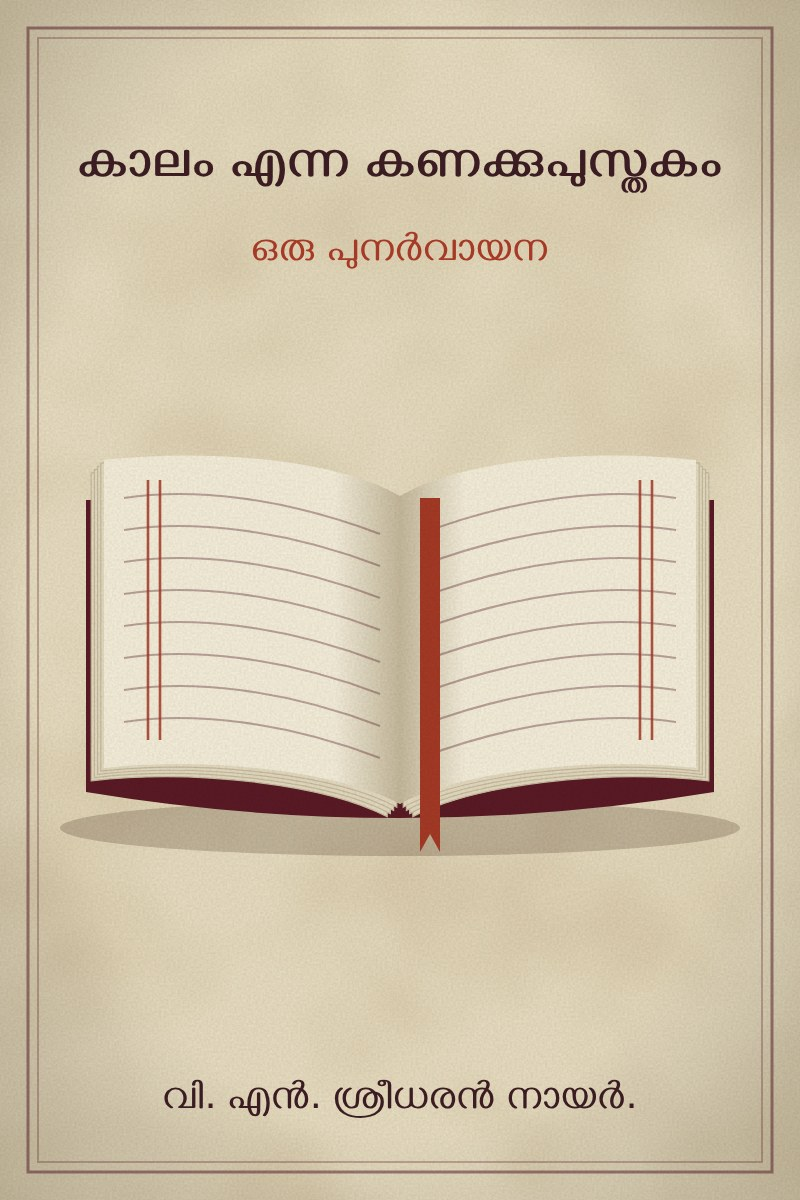
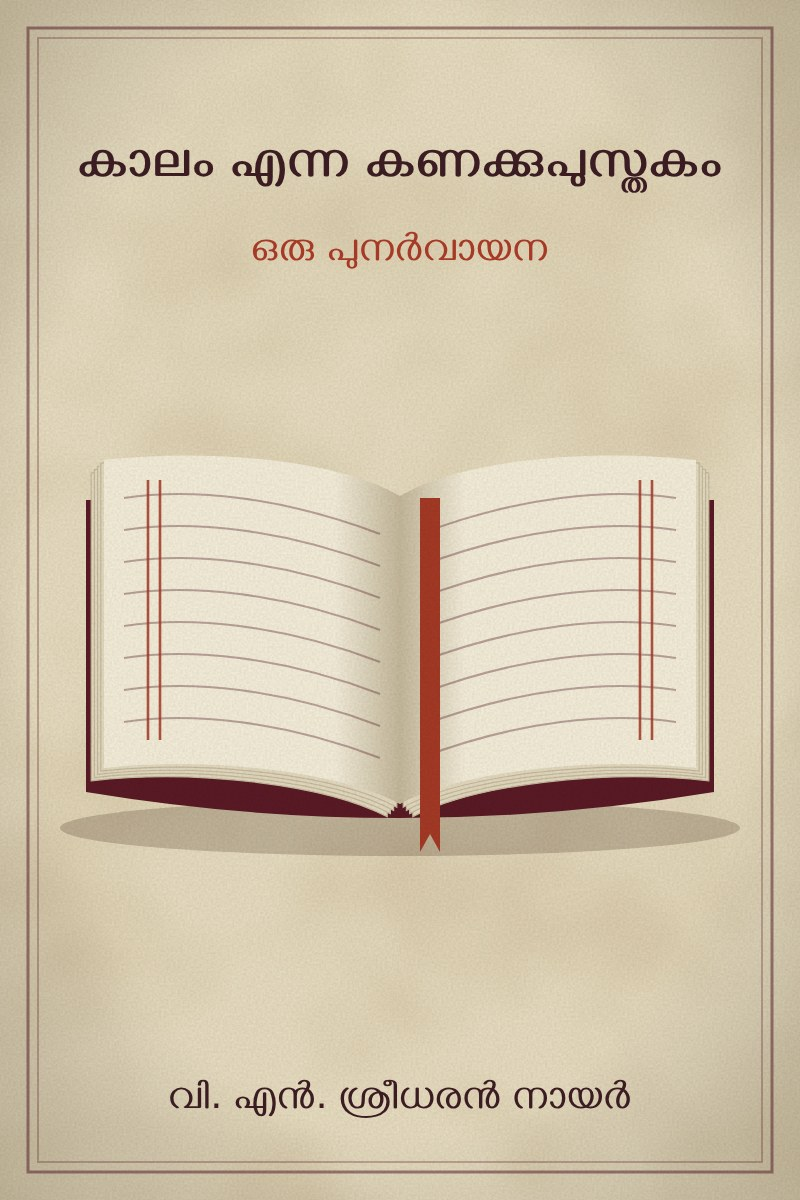
Remove toggle

Changed region(s): [[0.1875, 0.8942, 0.8125, 0.9558]]

diff --git a/src/custom.css b/src/custom.css
@@ -742,20 +742,15 @@ body,
     color: var(--accent);
 }
 
-/* Cover: which one shows is set by COVER in book-extras.js ("A", "B" or "none") */
+/* Cover */
 .content main .title-page .cover-art{margin:0 0 2rem;text-align:center}
-.content main .title-page .cover-art img{display:none;width:min(420px,100%);height:auto;margin:0 auto;border-radius:3px;box-shadow:0 3px 14px rgba(0,0,0,.28)}
-:root:not([data-cover]) .cover-art img[data-cover="A"],
-:root[data-cover="A"] .cover-art img[data-cover="A"],
-:root[data-cover="B"] .cover-art img[data-cover="B"],
-:root[data-cover="C"] .cover-art img[data-cover="C"],
-:root[data-cover="D"] .cover-art img[data-cover="D"]{display:block}
-/* With a cover showing, the typed title block stays in the page for the sidebar and search but is hidden visually */
-:root:not([data-cover="none"]) .content main .title-page > :is(h1,h2,hr,.author-name){position:absolute;width:1px;height:1px;overflow:hidden;clip-path:inset(50%);white-space:nowrap;margin:0;padding:0;border:0}
-/* With a cover showing, drop the title-page double rules and spacing */
-:root:not([data-cover="none"]) .content main .title-page{border-block:0;padding:0;margin:1.5rem auto;max-width:460px}
-/* With a cover showing, the cover IS the page: no paper card around it */
-:root:not([data-cover="none"]) .content main:has(.title-page){background:none;border:0;box-shadow:none;padding:0;margin-block:1.6rem 3rem}
-:root:not([data-cover="none"]) .content main .title-page{max-width:none;margin:0 auto}
-:root:not([data-cover="none"]) .content main .title-page .cover-art{margin:0}
-:root:not([data-cover="none"]) .content main .title-page .cover-art img{width:min(520px,100%);box-shadow:0 2px 4px var(--shadow),0 14px 40px var(--shadow)}
+.content main .title-page .cover-art img{display:block;width:min(420px,100%);height:auto;margin:0 auto;border-radius:3px;box-shadow:0 3px 14px rgba(0,0,0,.28)}
+/* On the title page, the typed title block stays in the page for the sidebar and search but is hidden visually */
+.content main .title-page > :is(h1,h2,hr,.author-name){position:absolute;width:1px;height:1px;overflow:hidden;clip-path:inset(50%);white-space:nowrap;margin:0;padding:0;border:0}
+/* On the title page, drop the title-page double rules and spacing */
+.content main .title-page{border-block:0;padding:0;margin:1.5rem auto;max-width:460px}
+/* On the title page, the cover IS the page: no paper card around it */
+.content main:has(.title-page){background:none;border:0;box-shadow:none;padding:0;margin-block:1.6rem 3rem}
+.content main .title-page{max-width:none;margin:0 auto}
+.content main .title-page .cover-art{margin:0}
+.content main .title-page .cover-art img{width:min(520px,100%);box-shadow:0 2px 4px var(--shadow),0 14px 40px var(--shadow)}

diff --git a/src/book-extras.js b/src/book-extras.js
@@ -1,7 +1,3 @@
-/* Cover choice: "A" margin line · "B" tally marks, teal · "C" tally marks, maroon · "D" open book · "none" typed title only */
-const COVER = "D";
-document.documentElement.dataset.cover = COVER;
-
 /* Text-size buttons + reading progress bar for the book.
    Loaded through book.toml -> additional-js. */
 (function () {

diff --git a/src/README.md b/src/README.md
@@ -1,20 +1,6 @@
-
-<div class="title-page">
-
-# കാലം എന്ന കണക്കുപുസ്തകം 
-
-## (ഒരു പുനർവായന)
-
---- 
-
-<div class="author-name">വി എൻ ശ്രീധരൻ നായർ </div>
-
-<!-- Covers: choose which one shows with the COVER constant at the top of book-extras.js -->
+<!-- Cover (other designs are kept in src/images/) -->
 <div class="cover-art">
-<img data-cover="A" src="images/cover-margin-line.jpg" alt="Cover: കാലം എന്ന കണക്കുപുസ്തകം (ഒരു പുനർവായന), margin line design">
-<img data-cover="B" src="images/cover-tally.jpg" alt="Cover: കാലം എന്ന കണക്കുപുസ്തകം (ഒരു പുനർവായന), tally marks, teal">
-<img data-cover="C" src="images/cover-tally-maroon.jpg" alt="Cover: കാലം എന്ന കണക്കുപുസ്തകം (ഒരു പുനർവായന), tally marks, maroon">
-<img data-cover="D" src="images/cover-open-book.jpg" alt="Cover: കാലം എന്ന കണക്കുപുസ്തകം, open book">
+<img src="images/cover-open-book.jpg?v=4" alt="Cover: കാലം എന്ന കണക്കുപുസ്തകം, open book">
 </div>
 
 </div>
